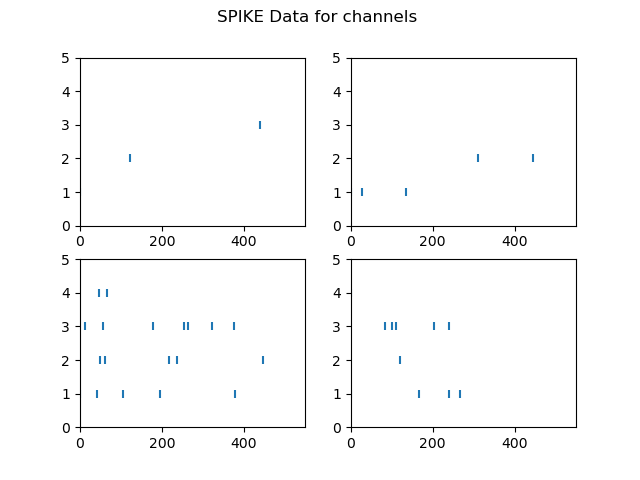
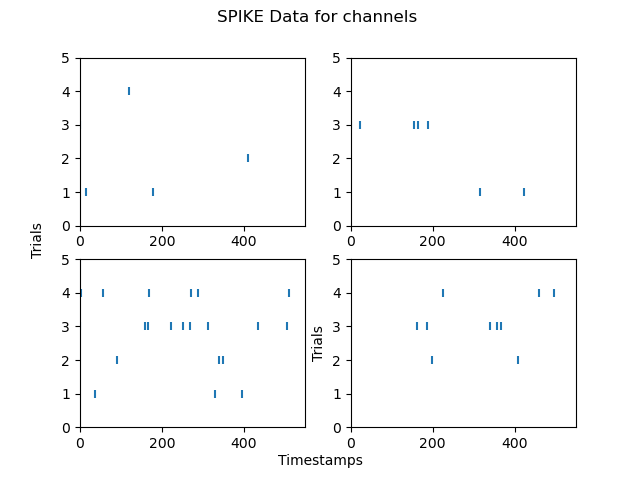
plot xlabel & ylabel

diff --git a/RHXreadStoreSpike.py b/RHXreadStoreSpike.py
@@ -167,8 +167,11 @@ sc = []
 for axis,i in zip(axes,range(len(axes))):
     sc.append(axis.scatter([],[],marker='|'))
     plt.setp(axis, xlim=(0,550), ylim=(0,5))
+fig.text(0.5, 0.04, 'Timestamps', ha='center', va='center')
+fig.text(0.06, 0.5, 'Trials', ha='center', va='center', rotation='vertical')
 
 fig.suptitle('SPIKE Data for channels ')
+plt.ylabel("Trials")
 
 userIPchannels = ["A-001","A-002","A-003","A-004"]
 
@@ -200,6 +203,8 @@ while stimulusComp_Inp:
     plt.figure(2)
     palette = sns.color_palette("dark:violet")
     plt.bar(totTimeStamps.keys(),[len(totTimeStamps[key]) for key in totTimeStamps.keys()],color=palette)
+    plt.title("no. of spikes vs Channel")
+    plt.ylabel("count(SPK)")
 
 
     user_input = input("Enter 'q' to quit: ")
